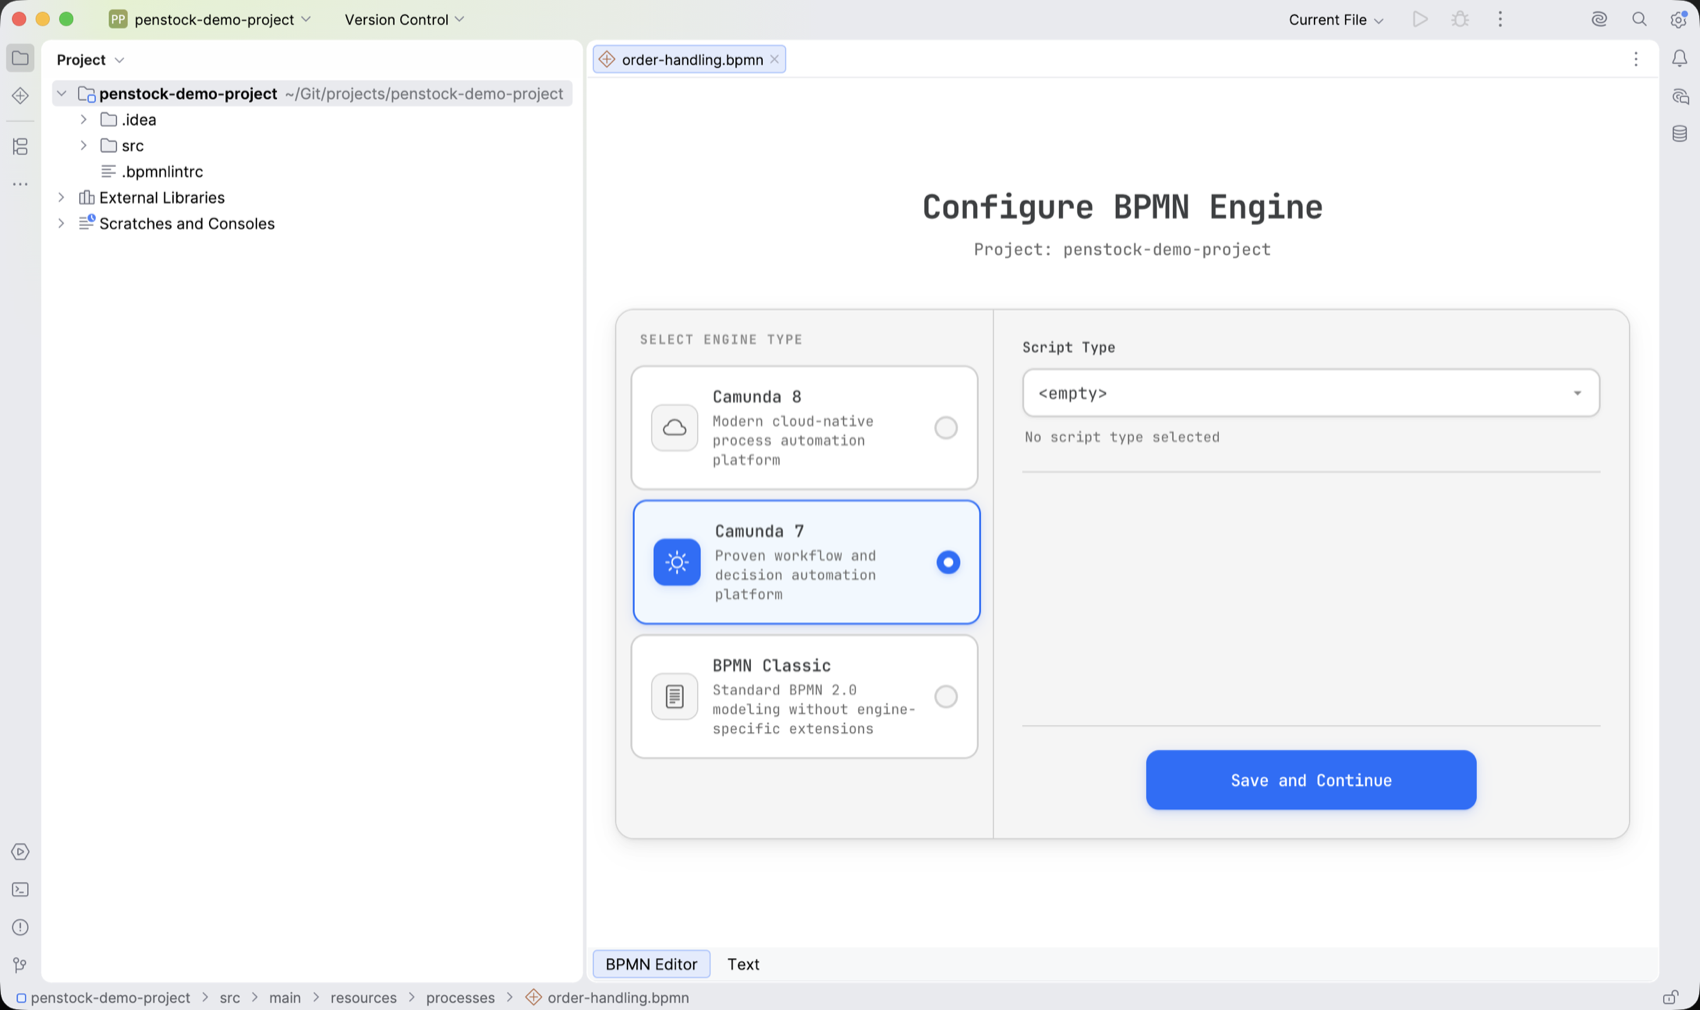
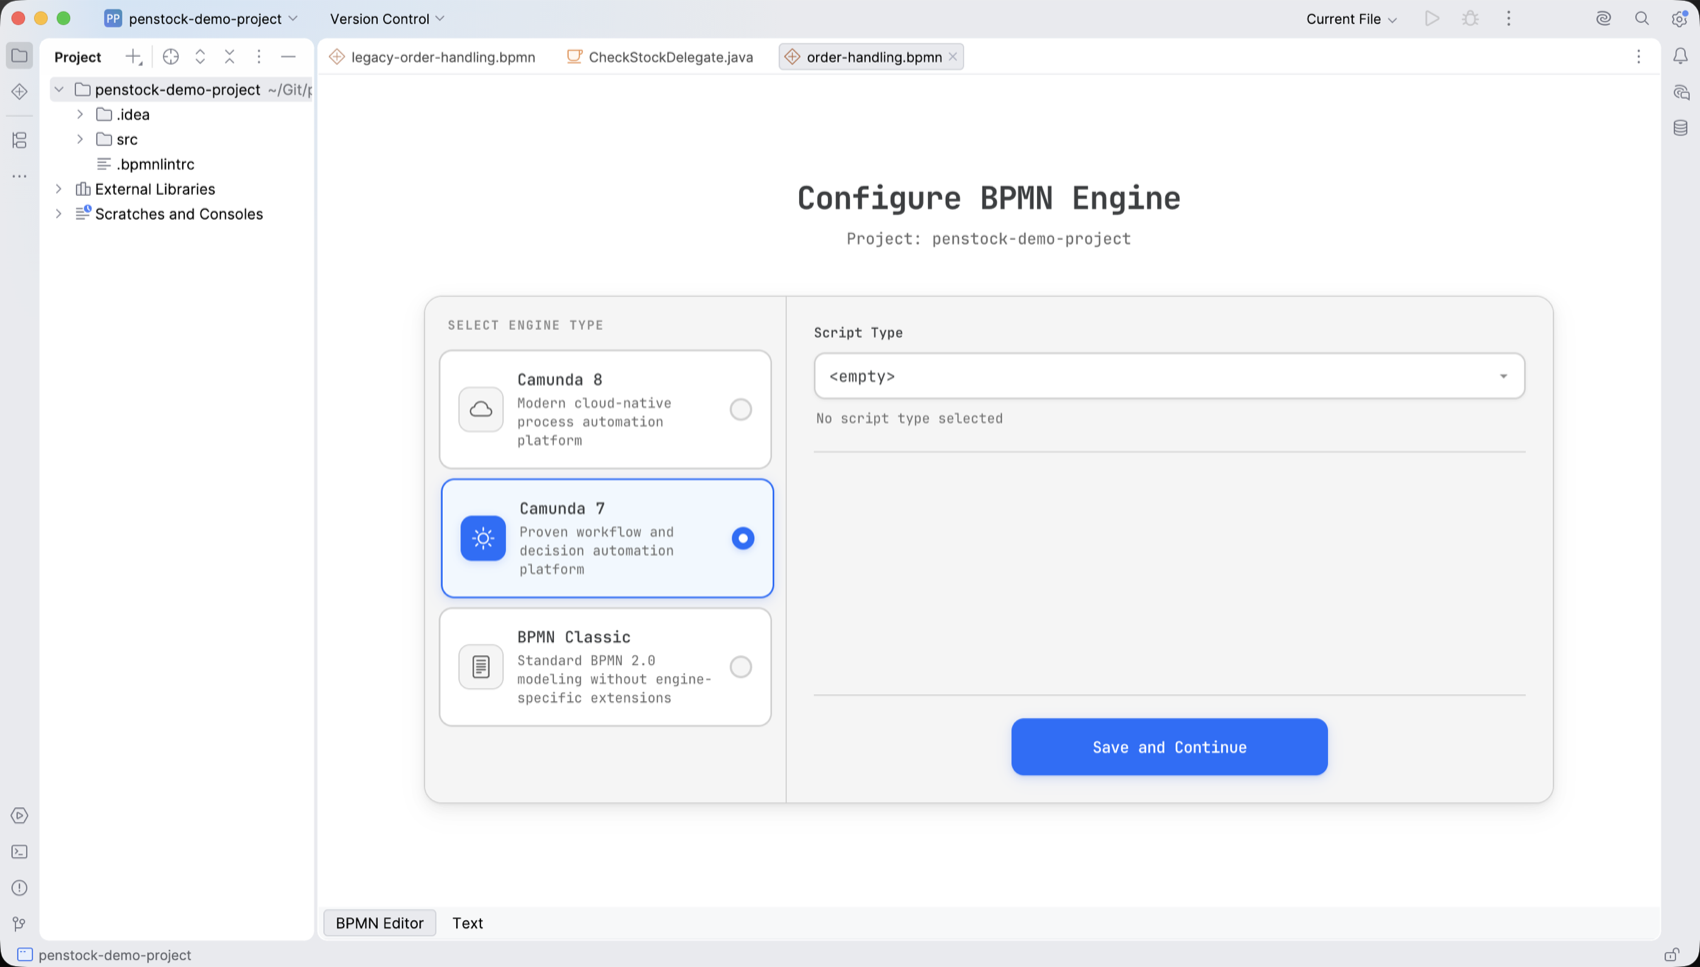
Document the diagram check, the class jump and Classic input/output
Three features the plugin has gained: the check panel gets its own page, the
context-menu jump from a delegate class name to the class gets a section in
Editing a diagram, and Engine profiles gains the Classic input and output
editor — which replaces the note that said Classic had no such thing.

Every screenshot is retaken with the project tree at a sane width, and the
Classic input and output groups are shown as they appear.

diff --git a/docs/guide/engine-profiles.html b/docs/guide/engine-profiles.html
@@ -153,14 +153,42 @@
     <p>The stored engine value is also shown in grey beside each diagram in the BPMN Project tool
     window, so you can see which profile a file is being edited under.</p>
 
+
+    <h2>Input and output in Classic</h2>
+
+    <p>Classic writes data inputs and outputs the way BPMN defines them, not the way an engine
+    extends it. Select a task, a sub-process or the process itself and the panel offers an
+    <strong>Inputs</strong> and an <strong>Outputs</strong> group; adding an entry writes a
+    <code>bpmn:ioSpecification</code> with a <code>bpmn:dataInput</code> or
+    <code>bpmn:dataOutput</code> inside it, and a reference from the input or output set:</p>
+
+<pre><code>&lt;bpmn:serviceTask id="Task_check" name="Check stock"&gt;
+  &lt;bpmn:ioSpecification&gt;
+    &lt;bpmn:dataInput id="DataInput_1" name="quantity" /&gt;
+    &lt;bpmn:inputSet id="InputSet_1" name="Inputs"&gt;
+      &lt;bpmn:dataInputRefs&gt;DataInput_1&lt;/bpmn:dataInputRefs&gt;
+    &lt;/bpmn:inputSet&gt;
+    &lt;bpmn:outputSet id="OutputSet_1" name="Outputs" /&gt;
+  &lt;/bpmn:ioSpecification&gt;
+&lt;/bpmn:serviceTask&gt;</code></pre>
+
+
+    <figure class="shot">
+      <img src="../img/classic-io.png" alt="The Inputs and Outputs groups on a task in the Classic profile">
+      <figcaption>An input on a service task in Classic. The ID is the one written into the file;
+      the name is what the diagram calls it.</figcaption>
+    </figure>
+
+    <p>Removing the last input and the last output removes the specification with them, so a file
+    never carries an empty one. The groups are registered only in the Classic profile: Camunda 7
+    and Camunda 8 keep their own input and output editors, which write
+    <code>camunda:inputOutput</code> and <code>zeebe:ioMapping</code>, because that is what those
+    engines read.</p>
+
     <h2>Known limitations</h2>
 
-    <p>Classic has no editor for standards-only input and output. The plugin's element tooltip can
-    display parameters it finds in <code>bpmn:ioSpecification</code>, in
-    <code>zeebe:ioMapping</code> and in <code>camunda:inputOutput</code>, but the properties panel in
-    Classic offers no group for editing <code>bpmn:ioSpecification</code>: data inputs and outputs
-    have to be edited in the XML. The input and output groups in the panel belong to the Camunda 7
-    and Camunda 8 providers and are written in their own namespaces, not in standard BPMN.</p>
+    <p>There is no per-file override of the engine profile beyond the project setting, so every
+    diagram in the project is edited under the same profile.</p>
 
     <p>There is no per-file override. The engine is a project setting, so every diagram in the
     project is edited under the same profile.</p>

diff --git a/docs/guide/editing.html b/docs/guide/editing.html
@@ -102,6 +102,23 @@
     model on the same 400&nbsp;ms rule as typing in the panel. Close the tab and the in-panel editor
     becomes editable again; press the button again and the existing tab is focused.</p>
 
+
+    <h2>From a delegate class to the class</h2>
+
+    <p>Right-click a task that names a Java class — a Camunda 7 <code>camunda:class</code>, a
+    delegate expression that unwraps to a fully qualified name, a listener that names one — and
+    the menu offers <strong>Go to</strong> that class. It opens the file in the IDE, found by name
+    and package in the project's own sources.</p>
+
+    <figure class="shot">
+      <img src="../img/goto-class.png" alt="The context menu offering Go to CheckStockDelegate">
+      <figcaption>The entry appears only when the element actually names a class. A delegate
+      expression that holds a bean name, such as <code>${checkStockDelegate}</code>, names no
+      class and is left alone.</figcaption>
+    </figure>
+
+    <p>A class that lives in a dependency rather than in the project's sources is not found.</p>
+
     <h2>The XML tab</h2>
 
     <p>The diagram editor is registered ahead of the IDE's own editor, not in place of it, so the
